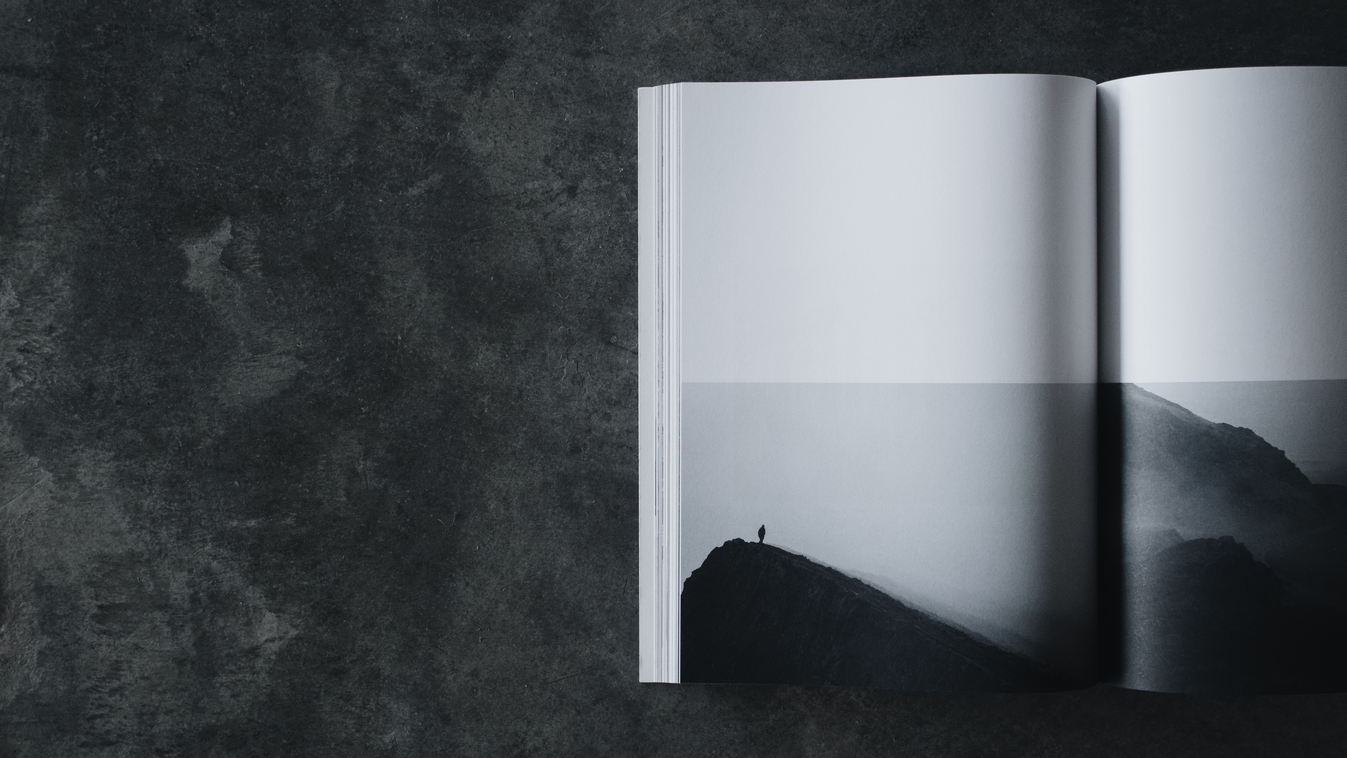
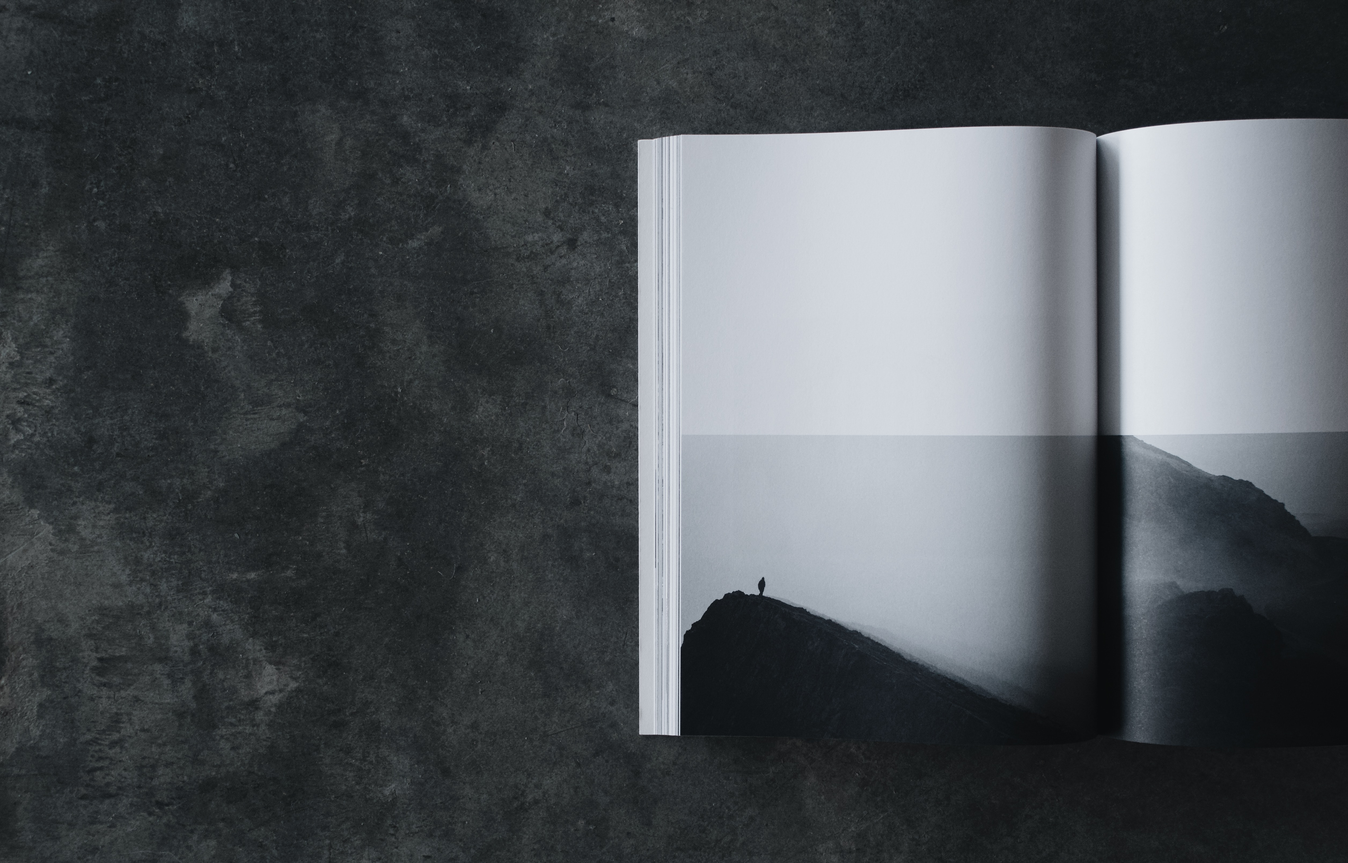
Site updated: 2021-05-26 15:03:38

diff --git a/posts/3513347368/index.html b/posts/3513347368/index.html
@@ -34,7 +34,7 @@
 <meta property="og:image" content="https://cdn.jsdelivr.net/gh/blackant-club/blogImage@main/img/20210524192826.png">
 <meta property="og:image" content="https://cdn.jsdelivr.net/gh/blackant-club/blogImage@main/img/20210524193226.png">
 <meta property="article:published_time" content="2021-05-24T10:45:41.000Z">
-<meta property="article:modified_time" content="2021-05-26T04:27:16.226Z">
+<meta property="article:modified_time" content="2021-05-26T06:59:16.860Z">
 <meta property="article:author" content="Ryan">
 <meta name="twitter:card" content="summary">
 <meta name="twitter:image" content="https://cdn.jsdelivr.net/gh/blackant-club/blogImage@main/img/20210524185554.png">
@@ -263,7 +263,7 @@
           <i class="far fa-calendar-check"></i>
         </span>
         <span class="post-meta-item-text">更新于</span>
-        <time title="修改时间：2021-05-26 12:27:16" itemprop="dateModified" datetime="2021-05-26T12:27:16+08:00">2021-05-26</time>
+        <time title="修改时间：2021-05-26 14:59:16" itemprop="dateModified" datetime="2021-05-26T14:59:16+08:00">2021-05-26</time>
       </span>
 
   
@@ -367,7 +367,7 @@
   <p><span>本文标题:</span>一款国外老牌下载神器，你猜到了吗？</a></p>
   <p><span>文章作者:</span></a>Ryan</p>
   <p><span>发布时间:</span>2021年05月24日 - 18:45:41</p>
-  <p><span>最后更新:</span>2021年05月26日 - 12:27:16</p>
+  <p><span>最后更新:</span>2021年05月26日 - 14:59:16</p>
   <p><span>原始链接:</span><a href="/posts/3513347368/" title="一款国外老牌下载神器，你猜到了吗？">https://blackant-club.github.io/posts/3513347368/</a>
     <span class="copy-path"  title="点击复制文章链接"><i class="fa fa-clipboard" data-clipboard-text="https://blackant-club.github.io/posts/3513347368/"  aria-label="复制成功！"></i></span>
   </p>

diff --git a/index.html b/index.html
@@ -250,7 +250,7 @@
           <i class="far fa-calendar-check"></i>
         </span>
         <span class="post-meta-item-text">更新于</span>
-        <time title="修改时间：2021-05-26 12:27:16" itemprop="dateModified" datetime="2021-05-26T12:27:16+08:00">2021-05-26</time>
+        <time title="修改时间：2021-05-26 14:59:16" itemprop="dateModified" datetime="2021-05-26T14:59:16+08:00">2021-05-26</time>
       </span>
 
   
@@ -279,7 +279,7 @@
     
     
     <div class="post-body" itemprop="articleBody">
-          <p><img src="https://cdn.jsdelivr.net/gh/blackant-club/blogImage@main/img/20210526122625.png"></p>
+          <p><img src="https://cdn.jsdelivr.net/gh/blackant-club/blogImage@main/img/20210526145905.jpg"></p>
           <!--noindex-->
             <div class="post-button">
               <a class="btn" href="/posts/3513347368/#more" rel="contents">
